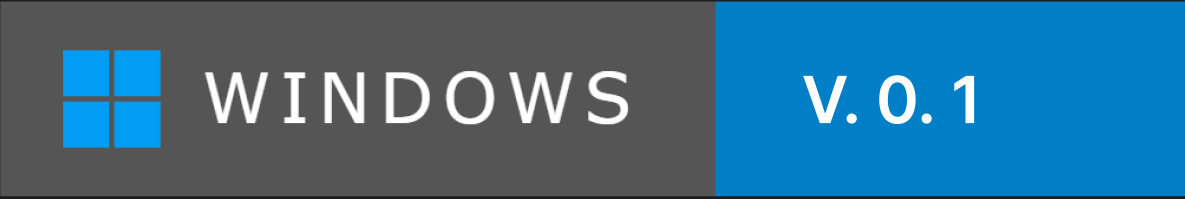
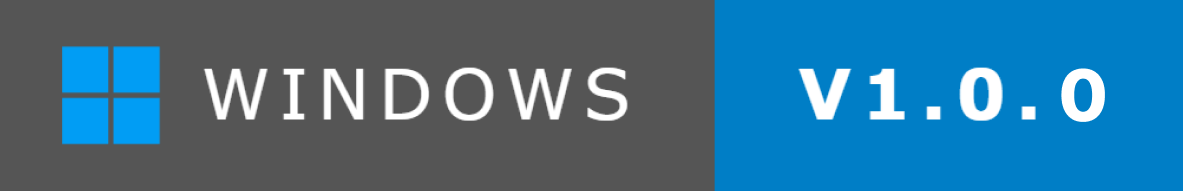
changed version on readme

diff --git a/README.md b/README.md
@@ -17,7 +17,7 @@
 
 <br>
 <div align="center">
-<a align="center", href="https://github.com/Giadissima/SortImages/releases/download/alpha/SortImages_alpha.rar" target="_blank"><img src="assets/windows_download.png" height=50/></a>
+<a align="center", href="https://github.com/Giadissima/SortImages/releases/download/1.0/SortImages_1.0.zip" target="_blank"><img src="assets/windows_download.png" height=50/></a>
 </div>
 
 ## Overview
@@ -29,13 +29,15 @@ The SortImages tool is a powerful utility designed to efficiently organize image
 ## Features
 
 - **Intelligent Sorting:** The tool intelligently organizes images by analyzing their names, metadata, and parent folder names.
-- **Hierarchical Structure:** After specifying source and destination folders, images are structured into subfolders based on the following format: `year/month/day`.
+- **Hierarchical Structure:** After specifying source and destination folders, images are structured into subfolders based on user-defined preferences, including the options to organize by `year`, `year/month`, or `year/month/day`.
 - **Duplicate Recognition:** The tool recognizes duplicate images and offers user-selectable options to handle them:
   - Default: Leaves duplicates in the source folder and logs the detection.
   - Option to delete duplicates during the sorting process.
 - **User Options:**
+  - Option to choose the hierarchical structure based on year, year/month, or year/month/day.
   - Option to ignore folder names during sorting.
   - Option to delete empty folders after sorting.
+  - Option to move screenshots into a dedicated folder named "Screenshot" with organized subfolders.
 
 ## How to Use
 
@@ -57,7 +59,7 @@ The SortImages tool is a powerful utility designed to efficiently organize image
 If you are using a Windows operating system, you can effortlessly download the project by clicking the following button:
 
 <div>
-<a href="https://github.com/Giadissima/SortImages/releases/download/alpha/SortImages_alpha.rar" target="_blank"><img src="assets/windows_download.png" height=50 alt="Windows Download"/></a>
+<a href="https://github.com/Giadissima/SortImages/releases/download/1.0/SortImages_1.0.zip" target="_blank"><img src="assets/windows_download.png" height=50 alt="Windows Download"/></a>
 </div>
 
 If you wish to view the source code or if you don't have Windows installed, you can follow these steps:
